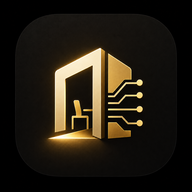
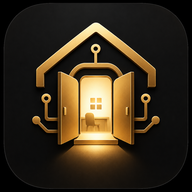
Add files via upload

diff --git a/panel.html b/panel.html
@@ -5,8 +5,9 @@
 <meta name="viewport" content="width=device-width, initial-scale=1.0, viewport-fit=cover">
 <meta name="robots" content="noindex,nofollow">
 <title>Panel del Distribuidor — Tomas Flores</title>
-<link rel="icon" type="image/png" href="favicon-panel.png">
+<link rel="icon" type="image/png" href="favicon-oficina.png">
 <link rel="apple-touch-icon" href="icono-panel.png">
+<link rel="apple-touch-icon" sizes="180x180" href="icono-panel.png">
 <meta name="apple-mobile-web-app-title" content="Mi Oficina">
 <meta name="theme-color" content="#1A1A1A">
 <link rel="preconnect" href="https://fonts.googleapis.com">
